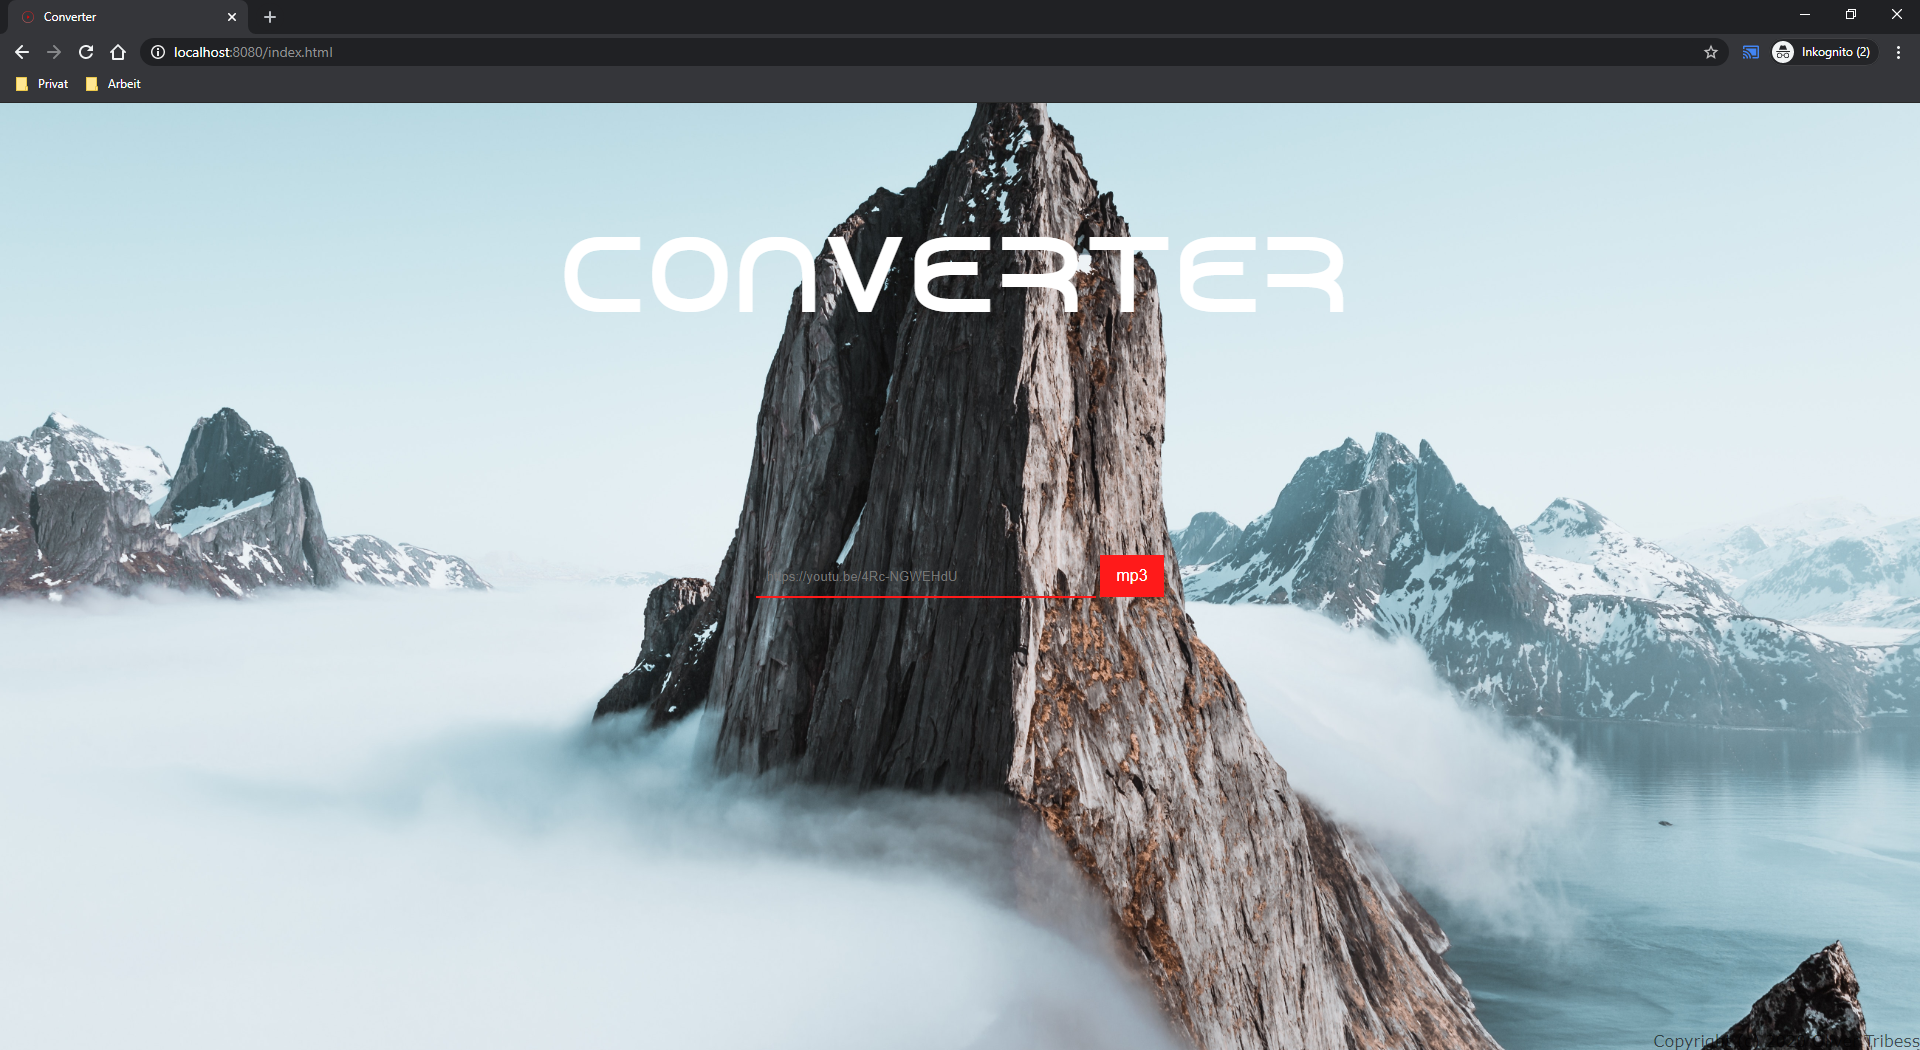
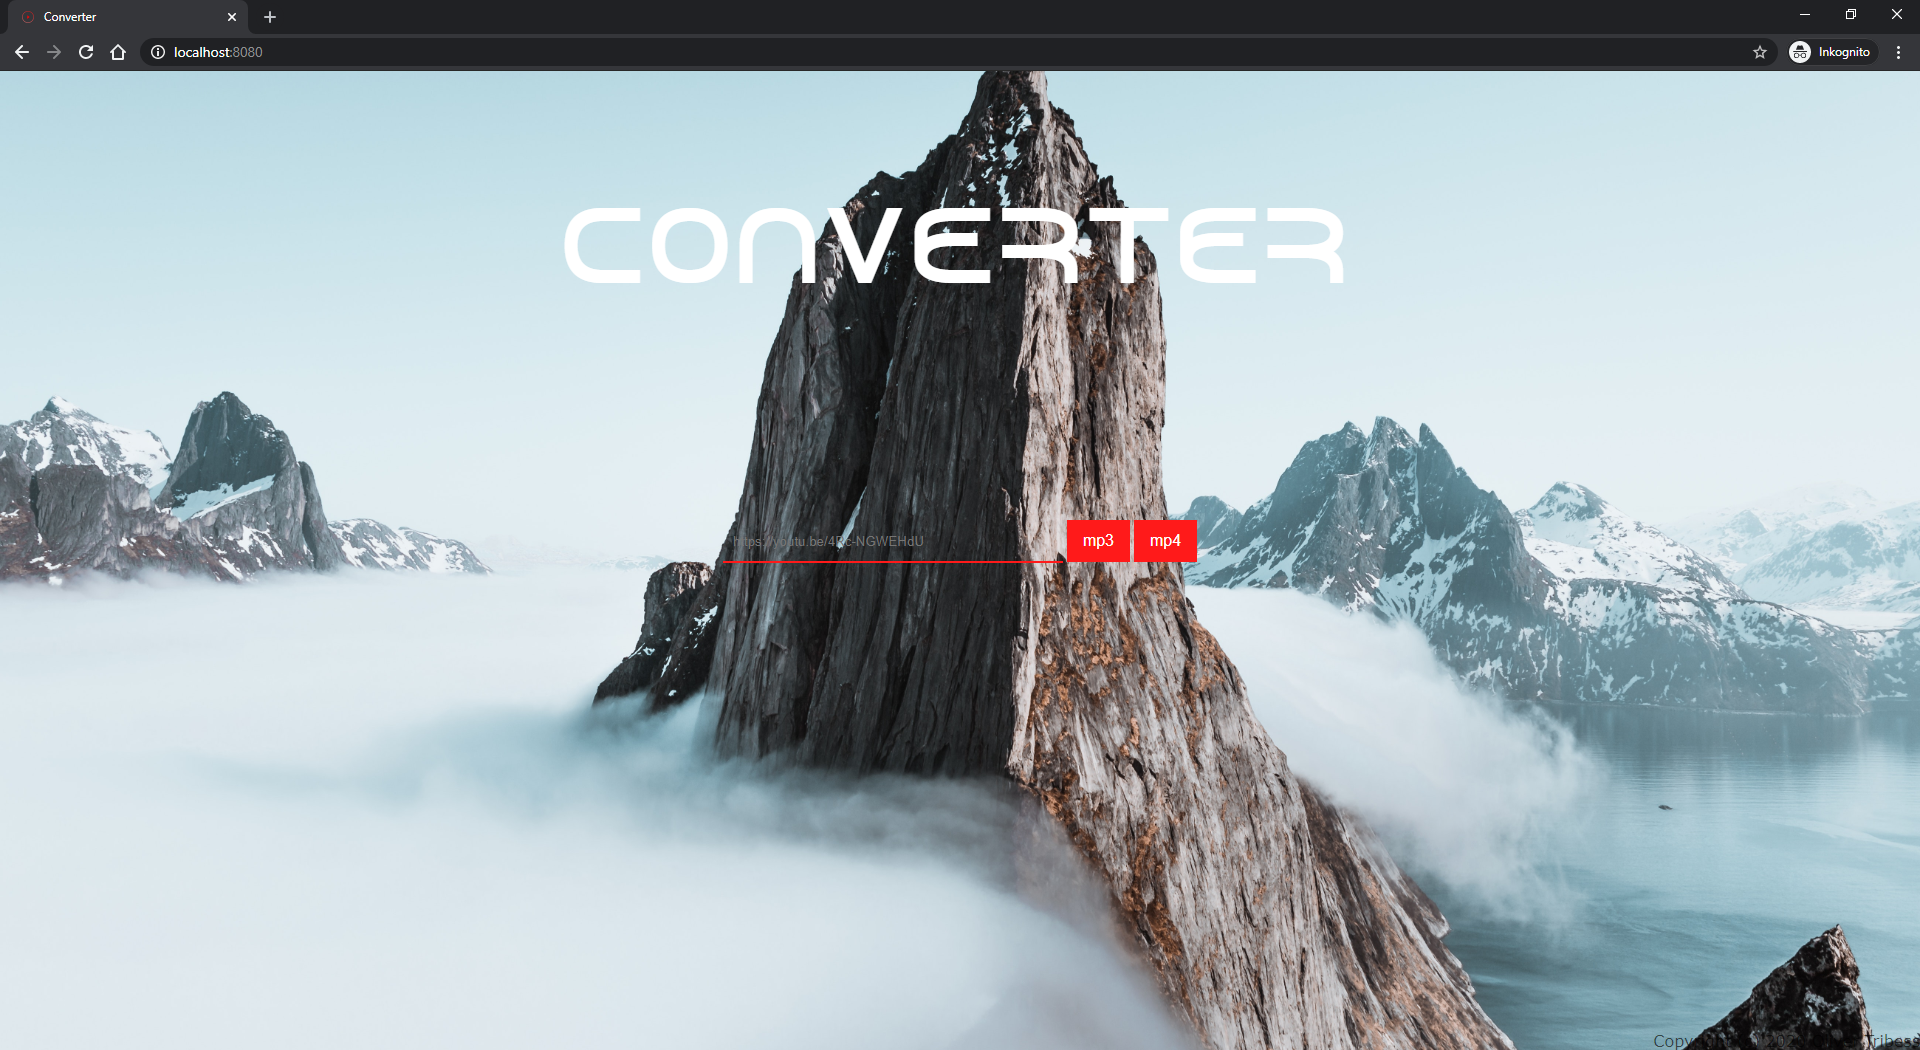
add mp4 video support.

diff --git a/src/main/resources/static/index.html b/src/main/resources/static/index.html
@@ -113,7 +113,8 @@
 <main>
     <form>
         <input type="url" name="url" id="url" placeholder="https://youtu.be/4Rc-NGWEHdU" required/>
-        <button type="submit">mp3</button>
+        <button type="submit" name="convertToMp3">mp3</button>
+        <button type="submit" name="convertToMp4">mp4</button>
     </form>
     <br/>
     <table id="tickets" aria-describedby="converted files">
@@ -164,9 +165,14 @@
                 $('body').css('background-image', 'url(img/' + images[random] + ')');
             };
 
+            $('button[type="submit"]').on('click', function(){
+                  $('form').data('button', this.name);
+            });
+
             $("form").submit(function(e) {
                 e.preventDefault();
-                jQuery.post('convertToMp3', $(this).serialize(), function(ticket) {
+                var url = $(this).data('button') || $('input[type="submit"]').get(0).name;
+                jQuery.post(url, $(this).serialize(), function(ticket) {
                   $('#tickets').append(`
                     <tr>
                         <td>`+$('#url').val()+`</td>

diff --git a/src/main/java/de/clique/westwood/converter/service/ConverterService.java b/src/main/java/de/clique/westwood/converter/service/ConverterService.java
@@ -54,6 +54,28 @@ public class ConverterService {
     }
 
     /**
+     * Extract video of given online video
+     *
+     * @param url the video url
+     * @return the video file (as mp4)
+     */
+    public String convertToMp4(URL url) {
+        String ticket = UUID.randomUUID().toString();
+        convertionQueue.put(ticket, null);
+        String[] options = {youtube_dl_path, "-f", "\"bestvideo[height<=?1080]+bestaudio/best\"", "bestvideo[height<=?1080]+bestaudio/best", "--recode-video", "mp4", "--add-metadata"};
+
+        new Thread(() -> {
+            try {
+                convert(ticket, url, options);
+            } catch (Exception e) {
+                log.error("Convertion error.", e);
+            }
+        }).start();
+
+        return ticket;
+    }
+
+    /**
      * Get the converted file that is related to the given ticket
      *
      * @param ticket the conversion ticket

diff --git a/src/main/java/de/clique/westwood/converter/controller/ConverterController.java b/src/main/java/de/clique/westwood/converter/controller/ConverterController.java
@@ -40,6 +40,18 @@ public class ConverterController {
     }
 
     /**
+     * Convert a given video (url) to mp4
+     *
+     * @param url the video url to convert
+     * @return the conversion ticket
+     */
+    @PostMapping("/convertToMp4")
+    public String convertToMp4(String url) throws MalformedURLException {
+        return service.convertToMp4(new URL(url));
+    }
+
+
+    /**
      * Check the conversion status of a given ticket
      *
      * @param ticket the conversion ticket

diff --git a/Readme.md b/Readme.md
@@ -3,7 +3,7 @@
 [![quality gate status](https://sonarcloud.io/api/project_badges/measure?project=Tait1337_converter&metric=alert_status)](https://sonarcloud.io/dashboard?id=Tait1337_converter)
 [![license](https://img.shields.io/badge/license-Apache%20License%202.0-blue.svg?style=flat)](LICENSE)
 
-Online YouTube2Mp3 converter.
+Online YouTube2Mp3 converter. Download online videos as mp3 (audio) or mp4 (video).
 
 ## Getting Started
 
